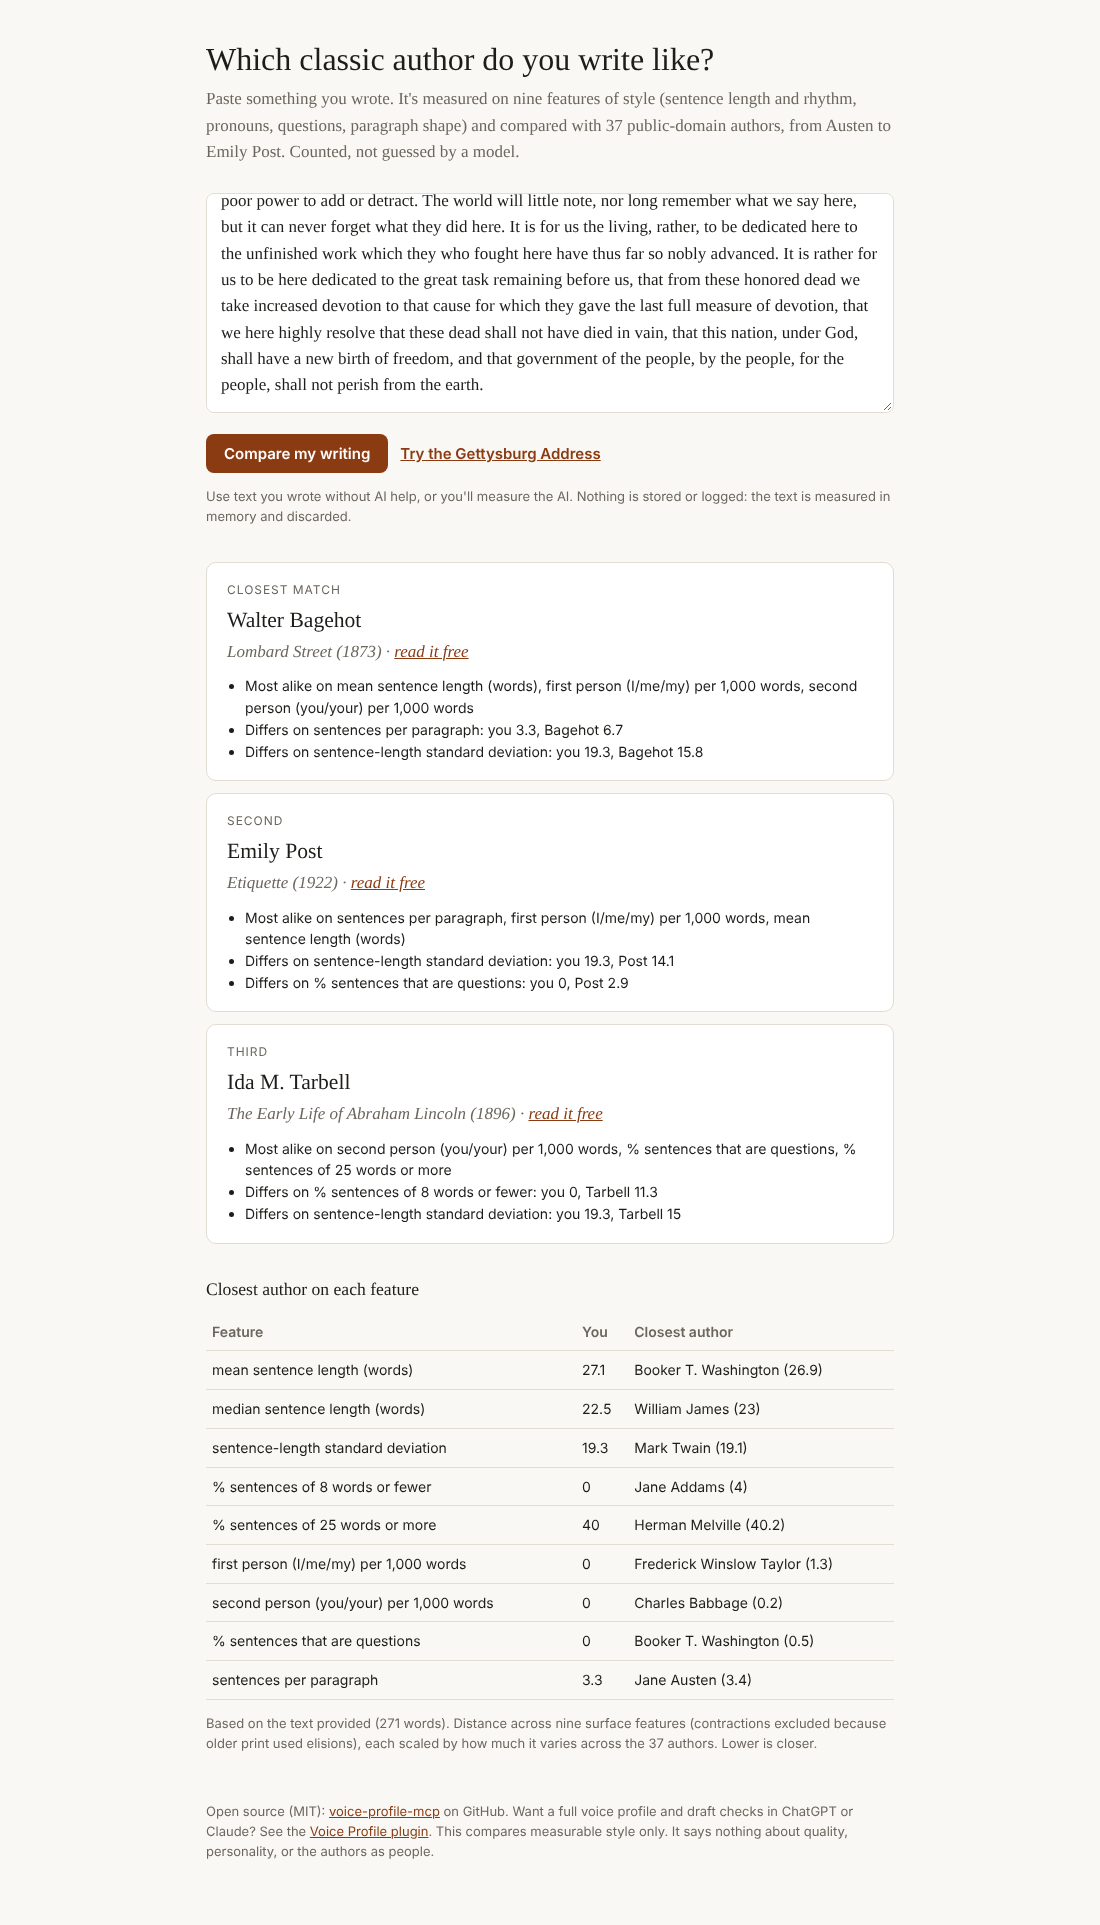
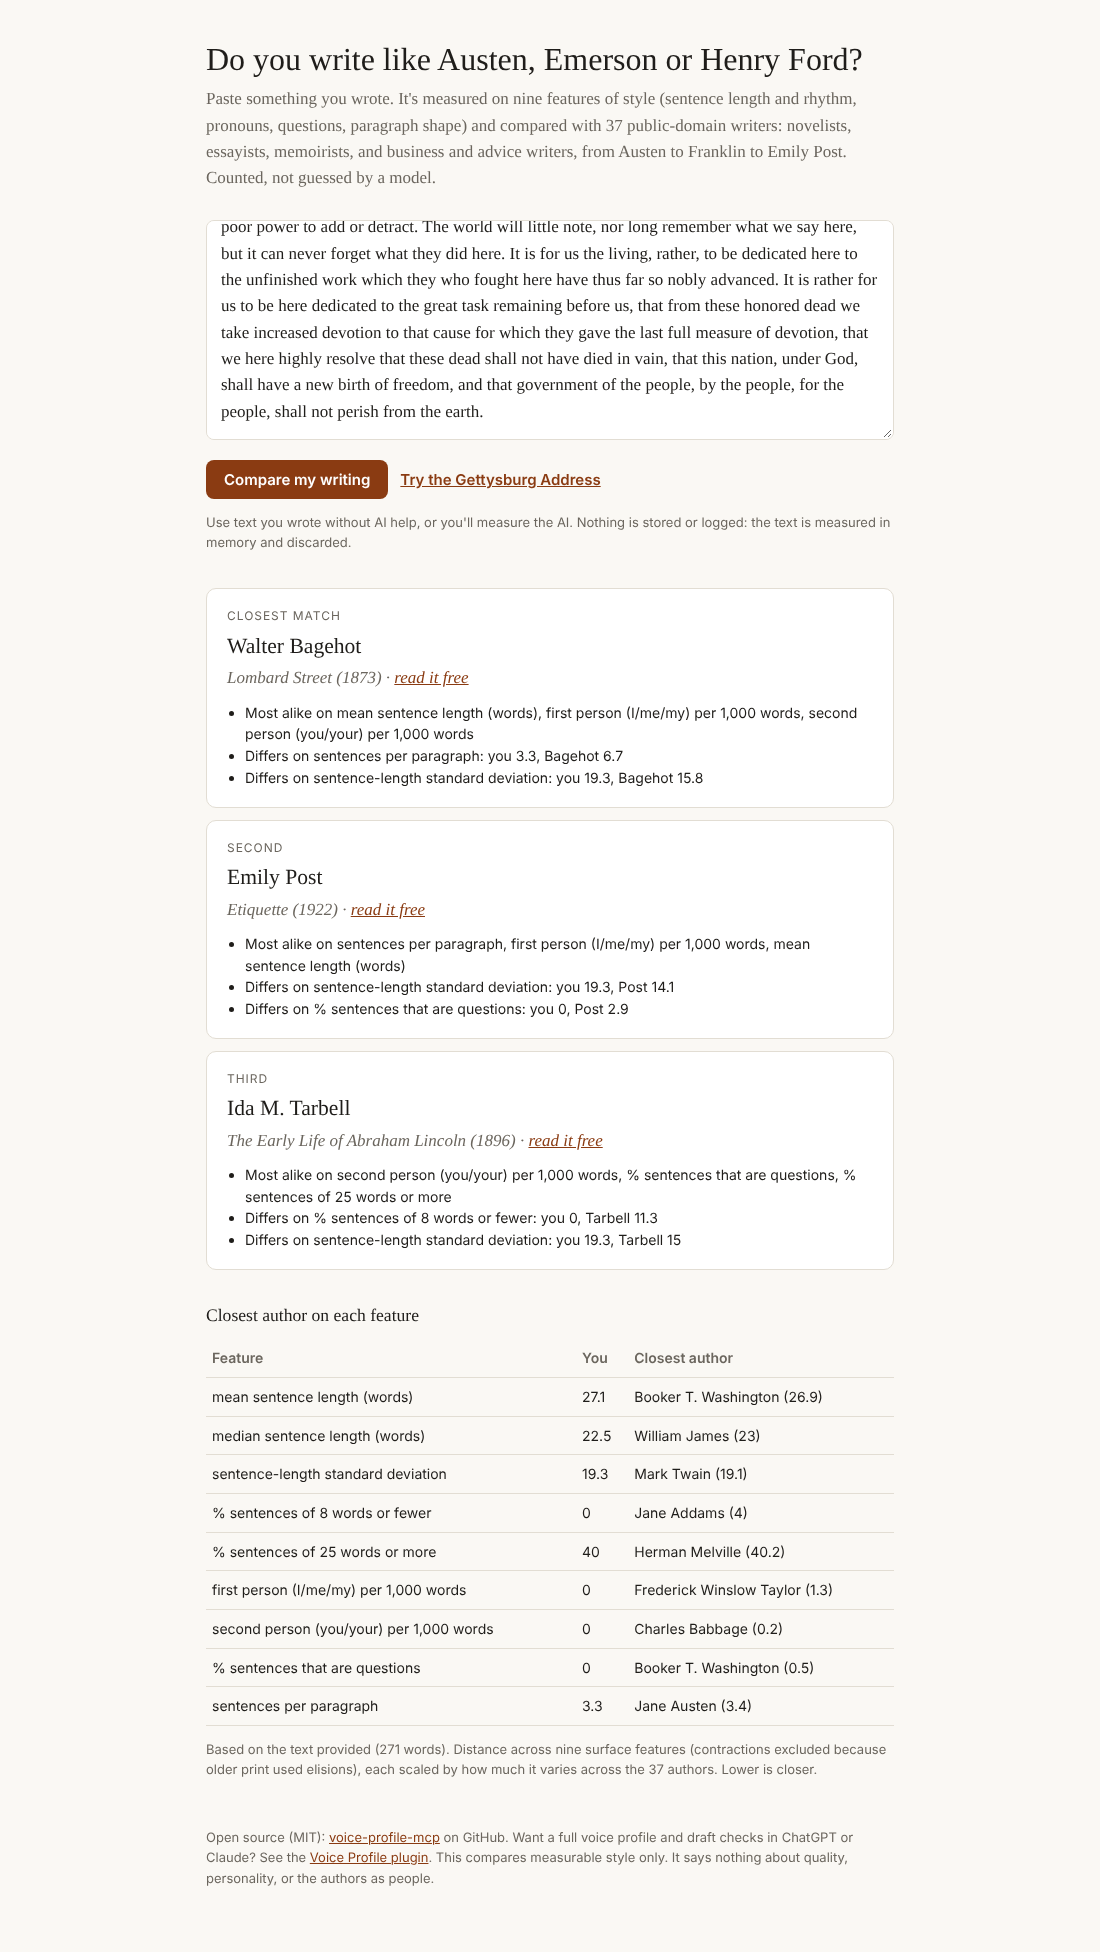
Hook: "Do you write like Austen, Emerson or Henry Ford?"
The library is half non-fiction (essays, memoir, business, finance, advice),
so "classic author" undersold it. README, demo page and screenshot updated.

Claude-Session: https://claude.ai/code/session_013umGESLax44Vt3hUQHH51b

diff --git a/api/_core/demo.html b/api/_core/demo.html
@@ -3,8 +3,8 @@
 <head>
 <meta charset="utf-8">
 <meta name="viewport" content="width=device-width, initial-scale=1">
-<title>Which classic author do you write like?</title>
-<meta name="description" content="Paste your writing. See which of 37 public-domain authors it matches on measured style. Nothing is stored.">
+<title>Who do you write like?</title>
+<meta name="description" content="Paste your writing. See which of 37 public-domain writers, fiction and non-fiction, it matches on measured style. Nothing is stored.">
 <style>
   :root {
     --bg: #faf8f4; --fg: #1f1d1a; --muted: #6b665e; --line: #e2ddd3;
@@ -47,8 +47,8 @@
 </head>
 <body>
 <main>
-  <h1>Which classic author do you write like?</h1>
-  <p class="lede">Paste something you wrote. It's measured on nine features of style (sentence length and rhythm, pronouns, questions, paragraph shape) and compared with 37 public-domain authors, from Austen to Emily Post. Counted, not guessed by a model.</p>
+  <h1>Do you write like Austen, Emerson or Henry Ford?</h1>
+  <p class="lede">Paste something you wrote. It's measured on nine features of style (sentence length and rhythm, pronouns, questions, paragraph shape) and compared with 37 public-domain writers: novelists, essayists, memoirists, and business and advice writers, from Austen to Franklin to Emily Post. Counted, not guessed by a model.</p>
 
   <textarea id="text" placeholder="Paste at least five sentences of your own writing: a blog post, a memo, an email. 200+ words gives a steadier result."></textarea>
   <div class="row sans">

diff --git a/README.md b/README.md
@@ -1,10 +1,10 @@
 # voice-profile-mcp
 
-**Which classic author do you write like?** Paste your writing and find out, measured instead of guessed.
+**Do you write like Austen, Emerson or Henry Ford?** Paste your writing and find out, measured instead of guessed.
 
 **[Try it in your browser →](https://voice-profile-mcp.vercel.app/)** No sign-up. Nothing is stored.
 
-This server measures nine features of your style (sentence length and rhythm, pronouns, questions, paragraph shape) and compares them with 37 public-domain authors, from Jane Austen to Emily Post to Henry Ford. The numbers are counted in code, not estimated by a language model, so the same text always gets the same answer.
+This server measures nine features of your style (sentence length and rhythm, pronouns, questions, paragraph shape) and compares them with 37 public-domain writers: novelists, essayists, memoirists, and business, finance and advice writers, from Jane Austen to Benjamin Franklin to Emily Post. The numbers are counted in code, not estimated by a language model, so the same text always gets the same answer.
 
 It's also the measurement engine behind the **[Voice Profile plugin](https://github.com/genideva/voice-profile)**, which builds a profile of how you write and checks AI drafts against it so they sound like you.
 
